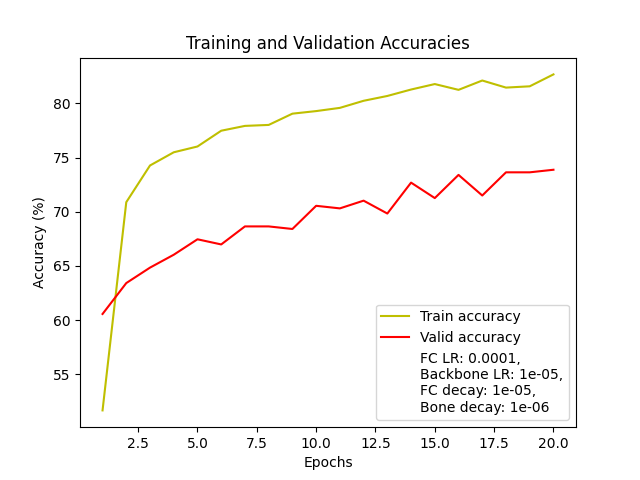
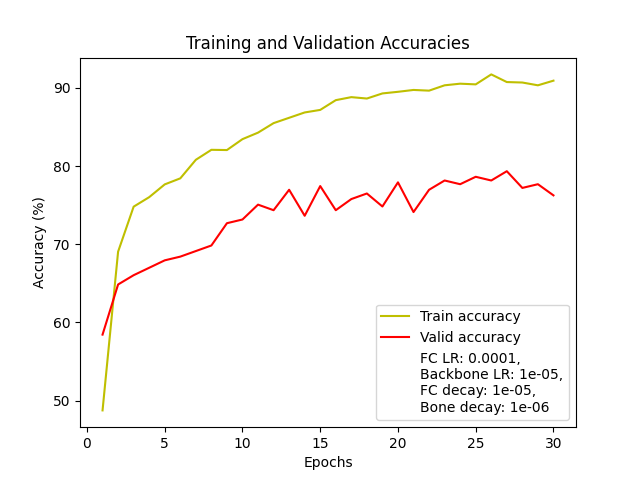
Transfer Learning

diff --git a/scripts/misc.py b/scripts/misc.py
@@ -182,27 +182,27 @@ def train(model, train_loader, valid_loader, fc_lr, bone_lr, fc_decay, bone_deca
         if is_differ:
             backbone_opt = optim.Adam(model.parameters(), lr=bone_lr, weight_decay=bone_decay)
             fc_opt = optim.Adam(model.classifier.parameters(), lr=fc_lr, weight_decay=fc_decay)
-            fc_scheduler = StepLR(fc_opt, 10, 0.1)
-            backbone_scheduler = StepLR(backbone_opt, 10, 0.1)
-            FCReduceLROnPlateauScheduler = ReduceLROnPlateau(fc_opt, mode='max', factor=0.5, patience=3)
-            BoneReduceLROnPlateauScheduler = ReduceLROnPlateau(backbone_opt, mode='max', factor=0.5, patience=3)
+            # fc_scheduler = StepLR(fc_opt, 10, 0.1)
+            # backbone_scheduler = StepLR(backbone_opt, 10, 0.1)
+            # FCReduceLROnPlateauScheduler = ReduceLROnPlateau(fc_opt, mode='max', factor=0.5, patience=3)
+            # BoneReduceLROnPlateauScheduler = ReduceLROnPlateau(backbone_opt, mode='max', factor=0.5, patience=3)
         else:
             optimizer = optim.Adam(model.parameters(), lr=pretrained_lr, weight_decay=pretrained_decay)
-            scheduler = StepLR(optimizer, 10, 0.1)
-            reduceLROnPlateauScheduler = ReduceLROnPlateau(optimizer, mode='max', factor=0.5, patience=3)
+            # scheduler = StepLR(optimizer, 10, 0.1)
+            # reduceLROnPlateauScheduler = ReduceLROnPlateau(optimizer, mode='max', factor=0.5, patience=3)
 
     else:
         if is_differ:
             backbone_opt = optim.Adam(model.backbone.parameters(), lr=bone_lr, weight_decay=bone_decay)
-            fc_opt = optim.Adam(model.сlassifier.parameters(), lr=fc_lr, weight_decay=fc_decay)
-            fc_scheduler = StepLR(fc_opt, 10, 0.1)
-            backbone_scheduler = StepLR(backbone_opt, 10, 0.1)
-            FCReduceLROnPlateauScheduler = ReduceLROnPlateau(fc_opt, mode='max', factor=0.5, patience=3)
-            BoneReduceLROnPlateauScheduler = ReduceLROnPlateau(backbone_opt, mode='max', factor=0.5, patience=3)
+            fc_opt = optim.Adam(model.classifier.parameters(), lr=fc_lr, weight_decay=fc_decay)
+            # fc_scheduler = StepLR(fc_opt, 10, 0.1)
+            # backbone_scheduler = StepLR(backbone_opt, 10, 0.1)
+            # FCReduceLROnPlateauScheduler = ReduceLROnPlateau(fc_opt, mode='max', factor=0.5, patience=3)
+            # BoneReduceLROnPlateauScheduler = ReduceLROnPlateau(backbone_opt, mode='max', factor=0.5, patience=3)
         else:
             optimizer = optim.Adam(model.parameters(), lr=pretrained_lr, weight_decay=pretrained_decay)
-            scheduler = StepLR(optimizer, 10, 0.1)
-            reduceLROnPlateauScheduler = ReduceLROnPlateau(optimizer, mode='max', factor=0.5, patience=3)
+            # scheduler = StepLR(optimizer, 10, 0.1)
+            # reduceLROnPlateauScheduler = ReduceLROnPlateau(optimizer, mode='max', factor=0.5, patience=3)
 
     train_losses = []
     train_accs = []
@@ -278,14 +278,14 @@ def train(model, train_loader, valid_loader, fc_lr, bone_lr, fc_decay, bone_deca
             epoch_acc = 100 * valid_correct / valid_total
             epoch_loss = valid_loss / len(valid_loader)
 
-            if is_pretrained and is_differ:
-                BoneReduceLROnPlateauScheduler.step(epoch_acc)
-                FCReduceLROnPlateauScheduler.step(epoch_acc)
-            elif not is_pretrained and is_differ:
-                BoneReduceLROnPlateauScheduler.step(epoch_acc)
-                FCReduceLROnPlateauScheduler.step(epoch_acc)
-            elif not is_differ:
-                reduceLROnPlateauScheduler.step(epoch_acc)
+            # if is_pretrained and is_differ:
+            #     BoneReduceLROnPlateauScheduler.step(epoch_acc)
+            #     FCReduceLROnPlateauScheduler.step(epoch_acc)
+            # elif not is_pretrained and is_differ:
+            #     BoneReduceLROnPlateauScheduler.step(epoch_acc)
+            #     FCReduceLROnPlateauScheduler.step(epoch_acc)
+            # elif not is_differ:
+            #     reduceLROnPlateauScheduler.step(epoch_acc)
 
             valid_results = (f"\nValidation Accuracy: {epoch_acc:.4f}%, "
                              f"Loss: {epoch_loss:.4f}")
@@ -348,7 +348,7 @@ def test(model, test_loader, class_names, number=999, to_save=False):
         plt.xlabel("Predicted labels")
         plt.ylabel("True labels")
         plt.title("Confusion Matrix Test")
-        plt.savefig(rf"..\effnetb0_stats\conf-matrix{number}.png")
+        plt.savefig(rf"..\stats\conf-matrix{number}.png")
         plt.clf()
     plt.show()
 
@@ -369,7 +369,7 @@ def show_stats(train_accs, valid_accs, train_losses, valid_losses,
         plt.xlabel('Epochs')
         plt.ylabel('Accuracy (%)')
         plt.legend()
-        plt.savefig(rf"..\effnetb0_stats\accuracies{number}.png")
+        plt.savefig(rf"..\stats\accuracies{number}.png")
         plt.clf()
 
         plt.plot(epochs, train_losses, 'y', label='Train loss')
@@ -379,7 +379,7 @@ def show_stats(train_accs, valid_accs, train_losses, valid_losses,
         plt.xlabel('Epochs')
         plt.ylabel('Loss')
         plt.legend()
-        plt.savefig(rf"..\effnetb0_stats\losses{number}.png")
+        plt.savefig(rf"..\stats\losses{number}.png")
         plt.clf()
 
 

diff --git a/scripts/main.py b/scripts/main.py
@@ -181,14 +181,14 @@ if __name__ == '__main__':
     # show_dataset_info()
     # automative_optimization()
 
-    # my_cnn = deploy_model()
-    # train(my_cnn, train_loader, val_loader,
-    #       1e-4,
-    #       1e-5,
-    #       1e-5,
-    #       1e-6, 20, True)
-    # test(my_cnn, test_loader, test_set.classes, 20, True)
+    my_cnn = deploy_model()
+    train(my_cnn, train_loader, val_loader,
+          1e-4,
+          1e-5,
+          1e-5,
+          1e-6, 30, True)
+    test(my_cnn, test_loader, test_set.classes, 30, True)
 
-    pretrained_model = deploy_pre_trained()
-    train(pretrained_model, train_loader, val_loader, 1e-4, 1e-5, 1e-5, 1e-6, 28, True, True, True)
-    test(pretrained_model, test_loader, train_set.classes, 28, True)
+    # pretrained_model = deploy_pre_trained()
+    # train(pretrained_model, train_loader, val_loader, 1e-4, 1e-5, 1e-5, 1e-6, 28, True, True, True)
+    # test(pretrained_model, test_loader, train_set.classes, 28, True)

diff --git a/scripts/CNN.py b/scripts/CNN.py
@@ -44,7 +44,7 @@ class MyCNN(nn.Module):
 
         self.adaptPool = nn.AdaptiveAvgPool2d(1)
 
-        self.fc = nn.Sequential(
+        self.classifier = nn.Sequential(
             nn.Flatten(),
             nn.Dropout(0.3),
             nn.Linear(baseline_maps * 32, baseline_maps * 16),
@@ -58,7 +58,7 @@ class MyCNN(nn.Module):
     def forward(self, x):
         x = self.backbone(x)
         x = self.adaptPool(x)
-        x = self.fc(x)
+        x = self.classifier(x)
         return x
 
 
